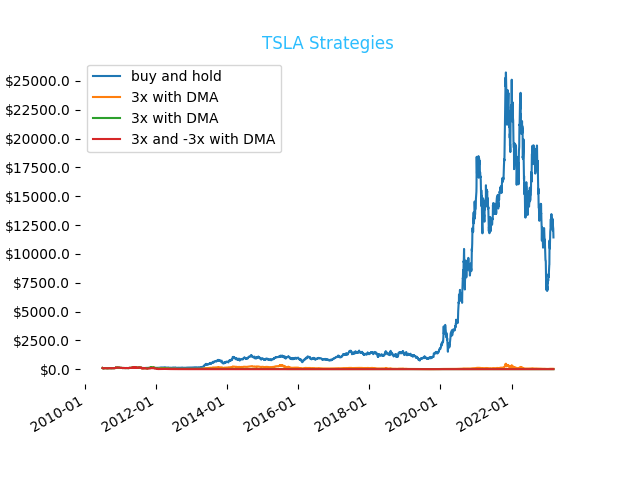
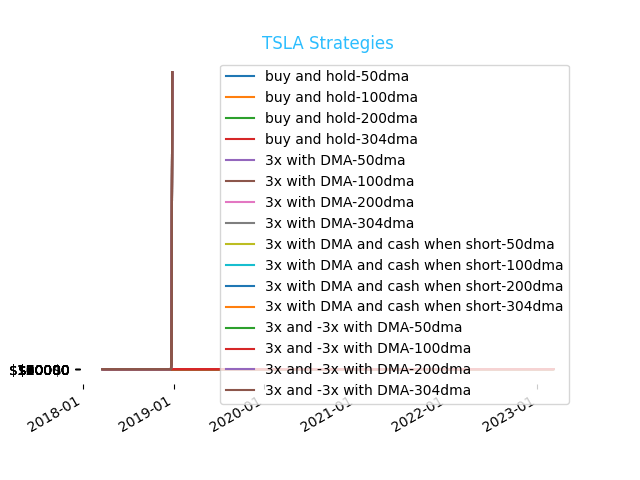
Replace iterrows with itertuple

diff --git a/cli/backtest.py b/cli/backtest.py
@@ -21,20 +21,24 @@ parser.add_argument("--graph")
 args = parser.parse_args()
 
 
-portfolio_csv_path = f"./../data/backtest/TSLA.csv"
-dma_period = 200
+portfolio_csv_path = f"./../data/backtest/TSLA"
+dma_periods = [50, 100, 200, 304]
 initial_investment = 100
 
 
 def calc_is_above_dma(row, dma):
     if dma != None:
-        return row["adjclose"] > dma
+        return row.adjclose > dma
     else:
         return NOT_ENOUGH_DATA
 
 
 def calculate_leverage(price, percent_change, leverage):
     return price * (1 + (percent_change * leverage))
+
+
+def round2(number):
+    return round(number, 2)
 
 
 def change_state(current_state, is_above_dma, date=None):
@@ -79,101 +83,112 @@ def run(strategy_label, strategy, ticker="TSLA"):
         }
     )
 
-    price_3x_long = 100
-    price_3x_short = 100
-    current_state = NOT_ENOUGH_DATA
-    comparison_price = None
+    for dma_period in dma_periods:
+        index = 0
+        data = stockDf[-1250:]
+        price_3x_long = 100
+        price_3x_short = 100
+        current_state = NOT_ENOUGH_DATA
+        comparison_price = None
+        portfolios = []
 
-    for index, row in stockDf.iterrows():
-        previous_data = stockDf[:index]
-        previous_tsla_count = portfolio["tsla"].iloc[-1]
-        previous_3x_count = portfolio["3x"].iloc[-1]
-        previous_neg_3x_count = portfolio["-3x"].iloc[-1]
-        todays_close = row["adjclose"]
-        cash_balance = portfolio["cash_balance"].iloc[-1]
+        for row in data.itertuples():
+            previous_data = stockDf[:index]
+            previous_tsla_count = portfolio["tsla"].iloc[-1]
+            previous_3x_count = portfolio["3x"].iloc[-1]
+            previous_neg_3x_count = portfolio["-3x"].iloc[-1]
+            todays_close = round2(row.adjclose)
+            cash_balance = portfolio["cash_balance"].iloc[-1]
 
-        if index >= 1:
-            comparison_price = stockDf.iloc[index - 1]["adjclose"]
+            if index >= 1:
+                comparison_price = round2(data.iloc[index - 1]["adjclose"])
 
-        percent_change = 0
-        if comparison_price != None:
-            percent_change = (todays_close / comparison_price) - 1
+            percent_change = 0
+            if comparison_price != None:
+                percent_change = (todays_close / comparison_price) - 1
 
-        price_3x_long = calculate_leverage(price_3x_long, percent_change, 3)
-        price_3x_short = calculate_leverage(price_3x_short, percent_change, -3)
+            price_3x_long = calculate_leverage(price_3x_long, percent_change, 3)
+            price_3x_short = calculate_leverage(price_3x_short, percent_change, -3)
 
-        dma_series = previous_data["adjclose"].rolling(dma_period).mean()[-1:]
+            dma_series = previous_data["adjclose"].rolling(dma_period).mean()[-1:]
 
-        dma = None
-        if not dma_series.isna().all():
-            dma = round(dma_series.values[0], 2)
+            dma = None
+            if not dma_series.isna().all():
+                dma = round(dma_series.values[0], 2)
 
-        is_above_dma = calc_is_above_dma(row, dma)
+            is_above_dma = calc_is_above_dma(row, dma)
 
-        current_state = change_state(current_state, is_above_dma, row["date"])
+            current_state = change_state(current_state, is_above_dma, row.date)
 
-        (
-            new_tsla_count,
-            new_3x_count,
-            new_neg_3x_count,
-            cash_balance,
-            total_value,
-        ) = strategy(
-            current_state,
-            row,
-            price_3x_long,
-            price_3x_short,
-            previous_tsla_count,
-            previous_3x_count,
-            previous_neg_3x_count,
-            cash_balance,
+            (
+                new_tsla_count,
+                new_3x_count,
+                new_neg_3x_count,
+                cash_balance,
+                total_value,
+            ) = strategy(
+                current_state,
+                row,
+                price_3x_long,
+                price_3x_short,
+                previous_tsla_count,
+                previous_3x_count,
+                previous_neg_3x_count,
+                cash_balance,
+            )
+
+            portfolio = pd.concat(
+                [
+                    portfolio,
+                    pd.DataFrame(
+                        data={
+                            "date": [row.date],
+                            "tsla_price": [row.adjclose],
+                            "dma": [dma],
+                            "tsla": [new_tsla_count],
+                            "3x": [new_3x_count],
+                            "-3x": [new_neg_3x_count],
+                            "cash_balance": [cash_balance],
+                            "total_value": [total_value],
+                            "state": [current_state],
+                        }
+                    ),
+                ],
+                join="inner",
+            )
+
+            index += 1
+
+        portfolio = portfolio[1:]
+        portfolio.round({"tsla": 2, "3x": 2, "-3x": 2, "total_value": 2})
+        portfolio.to_csv(f"{portfolio_csv_path}-{strategy_label}-{dma_period}dma.csv")
+
+        print(
+            f"[info] Saving portfolio backtest to {portfolio_csv_path}-{strategy_label}-{dma_period}dma.csv\n"
         )
 
-        portfolio = pd.concat(
-            [
-                portfolio,
-                pd.DataFrame(
-                    data={
-                        "date": [row["date"]],
-                        "tsla_price": [row["adjclose"]],
-                        "dma": [dma],
-                        "tsla": [new_tsla_count],
-                        "3x": [new_3x_count],
-                        "-3x": [new_neg_3x_count],
-                        "cash_balance": [cash_balance],
-                        "total_value": [total_value],
-                        "state": [current_state],
-                    }
-                ),
-            ],
-            join="inner",
+        portfolio["date"] = pd.to_datetime(portfolio["date"], format="%Y-%m-%d")
+        portfolios.append(portfolio)
+
+        plt.gca().xaxis.set_major_formatter(mdates.DateFormatter("%Y-%m"))
+        plt.gca().xaxis.set_major_locator(mdates.AutoDateLocator())
+
+        plt.plot(
+            portfolio["date"],
+            portfolio["total_value"],
+            label=f"{strategy_label}-{dma_period}dma",
         )
+        plt.gcf().autofmt_xdate()
 
-    portfolio = portfolio[1:]
-    portfolio.round({"tsla": 2, "3x": 2, "-3x": 2, "total_value": 2})
-    portfolio.to_csv(f"{portfolio_csv_path}-{strategy_label}.csv")
-
-    print(
-        f"[info] Saving portfolio backtest to {portfolio_csv_path}-{strategy_label}.csv\n"
-    )
-
-    portfolio["date"] = pd.to_datetime(portfolio["date"], format="%Y-%m-%d")
-
-    plt.gca().xaxis.set_major_formatter(mdates.DateFormatter("%Y-%m"))
-    plt.gca().xaxis.set_major_locator(mdates.AutoDateLocator())
-
-    plt.plot(portfolio["date"], portfolio["total_value"], label=strategy_label)
-    plt.gcf().autofmt_xdate()
-
-    return portfolio
+    return portfolios
 
 
 portfolio1 = run("buy and hold", strategy_buy_and_hold)
 portfolio2 = run("3x with DMA", strategy_3x_with_dma)
-portfolio2 = run(
+portfolio3 = run(
     "3x with DMA and cash when short", strategy_3x_with_dma_cash_when_short
 )
-portfolio3 = run("3x and -3x with DMA", strategy_3x_neg_3x_with_dma)
+portfolio4 = run("3x and -3x with DMA", strategy_3x_neg_3x_with_dma)
 
 CB91_Blue = "#2CBDFE"
 CB91_Green = "#47DBCD"
@@ -182,7 +197,22 @@ CB91_Purple = "#9D2EC5"
 CB91_Violet = "#661D98"
 CB91_Amber = "#F5B14C"
 
-color_list = [CB91_Blue, CB91_Pink, CB91_Green, CB91_Amber, CB91_Purple, CB91_Violet]
+
+color_list = [
+    CB91_Blue,
+    CB91_Pink,
+    CB91_Green,
+    CB91_Amber,
+    CB91_Purple,
+    CB91_Violet,
+    "#DBFF33",
+    "#ff0000",
+    "#00ff00",
+    "#0000ff",
+    "#ff3333",
+    "#ffff00",
+    "#ff6600",
+]
 plt.rcParams["axes.prop_cycle"] = plt.cycler(color=color_list)
 
 ax = plt.subplot(111)
@@ -199,12 +229,14 @@ ax.set_title("TSLA Strategies", color=CB91_Blue)
 ax.yaxis.set_ticks(
     np.arange(
         0,
-        max(
-            max(portfolio1["total_value"]),
-            max(portfolio2["total_value"]),
-            max(portfolio3["total_value"]),
-        ),
-        2500,
+        130000,
+        # max(
+        #     max(portfolio1["total_value"]),
+        #     max(portfolio2["total_value"]),
+        #     max(portfolio3["total_value"]),
+        #     max(portfolio4["total_value"]),
+        # ),
+        10000,
     )
 )
 

diff --git a/cli/calculate.py b/cli/calculate.py
@@ -1,6 +1,7 @@
 import pandas as pd
 
-def calculate(data, days, limit = None):
+
+def calculate(data, days, limit=None):
     volatilityMeasurements = []
     comparisonPrice = None
     currentRow = 0
@@ -8,16 +9,16 @@ def calculate(data, days, limit = None):
     dataRange = data[-limit:] if limit else data
 
     for _, row in dataRange.iterrows():
-        if (currentRow >= days):
+        if currentRow >= days:
             comparisonPrice = dataRange.iloc[currentRow - days]["adjclose"]
 
-        currentDaysPrice = row["adjclose"]
+        currentDaysPrice = row.adjclose
 
-        if (comparisonPrice != None):
+        if comparisonPrice != None:
             percentChange = 100 * ((currentDaysPrice / comparisonPrice) - 1)
 
             volatilityMeasurements.append(
-                { "date": row["date"], "percent_change": percentChange }
+                {"date": row["date"], "percent_change": percentChange}
             )
 
         currentRow += 1

diff --git a/cli/strategy_3x_with_dma.py b/cli/strategy_3x_with_dma.py
@@ -12,7 +12,7 @@ def strategy_3x_with_dma(
     cash_balance,
 ):
     total_value = (
-        previous_tsla_count * row["adjclose"]
+        previous_tsla_count * row.adjclose
         + previous_3x_count * price_3x_long
         + previous_neg_3x_count * price_3x_short
     )
@@ -21,7 +21,7 @@ def strategy_3x_with_dma(
         new_3x_count = total_value / price_3x_long
         new_neg_3x_count = 0
     elif current_state == GO_SHORT:
-        new_tsla_count = total_value / row["adjclose"]
+        new_tsla_count = total_value / row.adjclose
         new_3x_count = 0
         new_neg_3x_count = 0
     else:

diff --git a/cli/strategy_3x_with_dma_cash_when_short.py b/cli/strategy_3x_with_dma_cash_when_short.py
@@ -12,7 +12,7 @@ def strategy_3x_with_dma_cash_when_short(
     cash_balance,
 ):
     total_value = (
-        previous_tsla_count * row["adjclose"]
+        previous_tsla_count * row.adjclose
         + previous_3x_count * price_3x_long
         + previous_neg_3x_count * price_3x_short
         + cash_balance

diff --git a/cli/strategy_3x_neg_3x_with_dma.py b/cli/strategy_3x_neg_3x_with_dma.py
@@ -12,7 +12,7 @@ def strategy_3x_neg_3x_with_dma(
     cash_balance,
 ):
     total_value = (
-        previous_tsla_count * row["adjclose"]
+        previous_tsla_count * row.adjclose
         + previous_3x_count * price_3x_long
         + previous_neg_3x_count * price_3x_short
     )

diff --git a/cli/strategy_buy_and_hold.py b/cli/strategy_buy_and_hold.py
@@ -11,7 +11,7 @@ def strategy_buy_and_hold(
     previous_neg_3x_count,
     cash_balance,
 ):
-    total_value = previous_tsla_count * row["adjclose"]
+    total_value = previous_tsla_count * row.adjclose
 
     return (
         previous_tsla_count,
